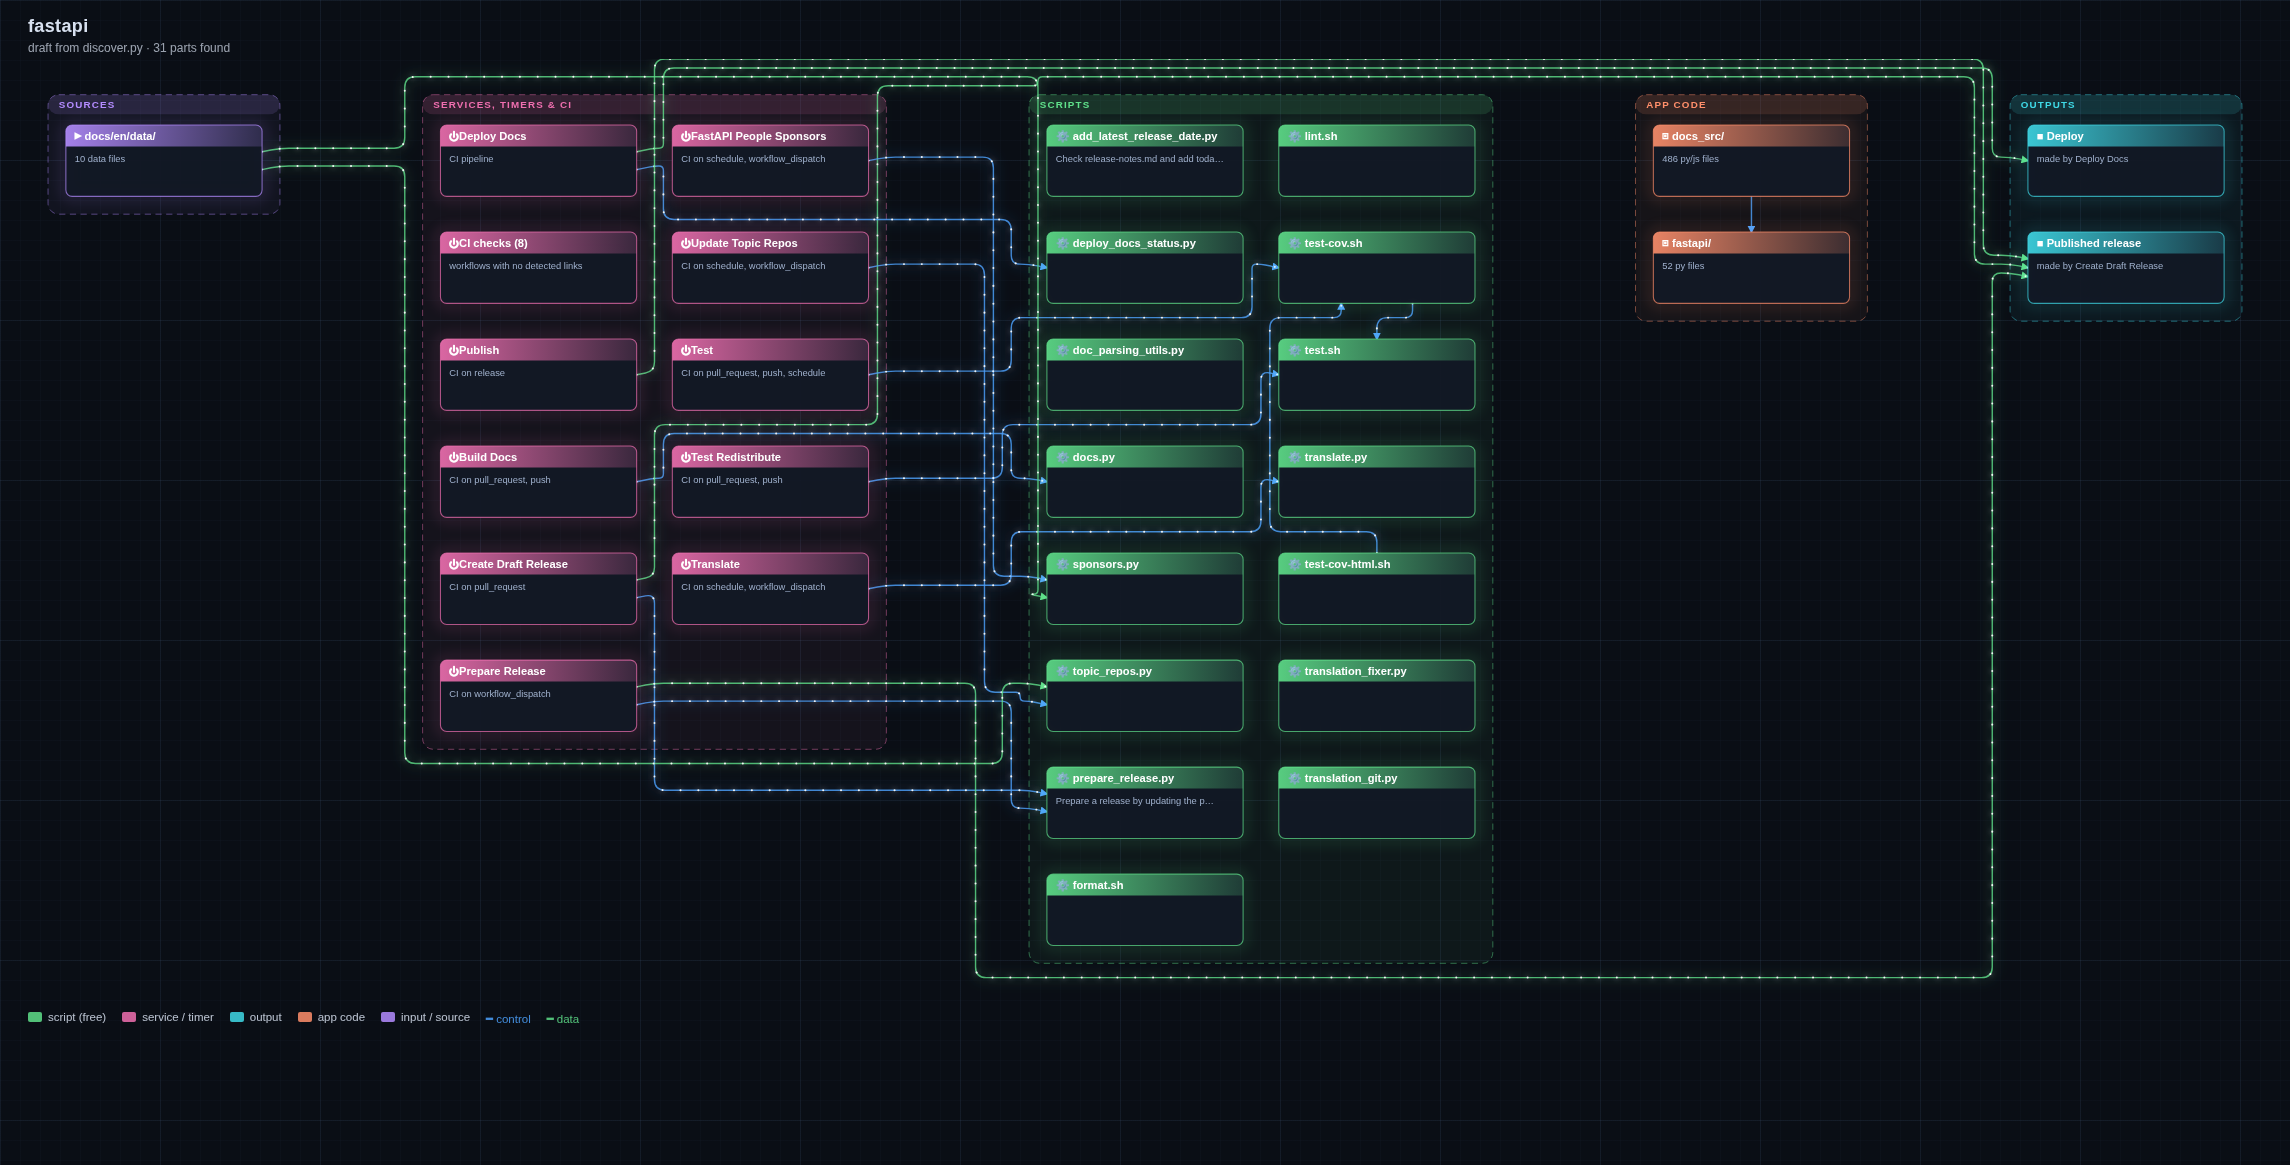
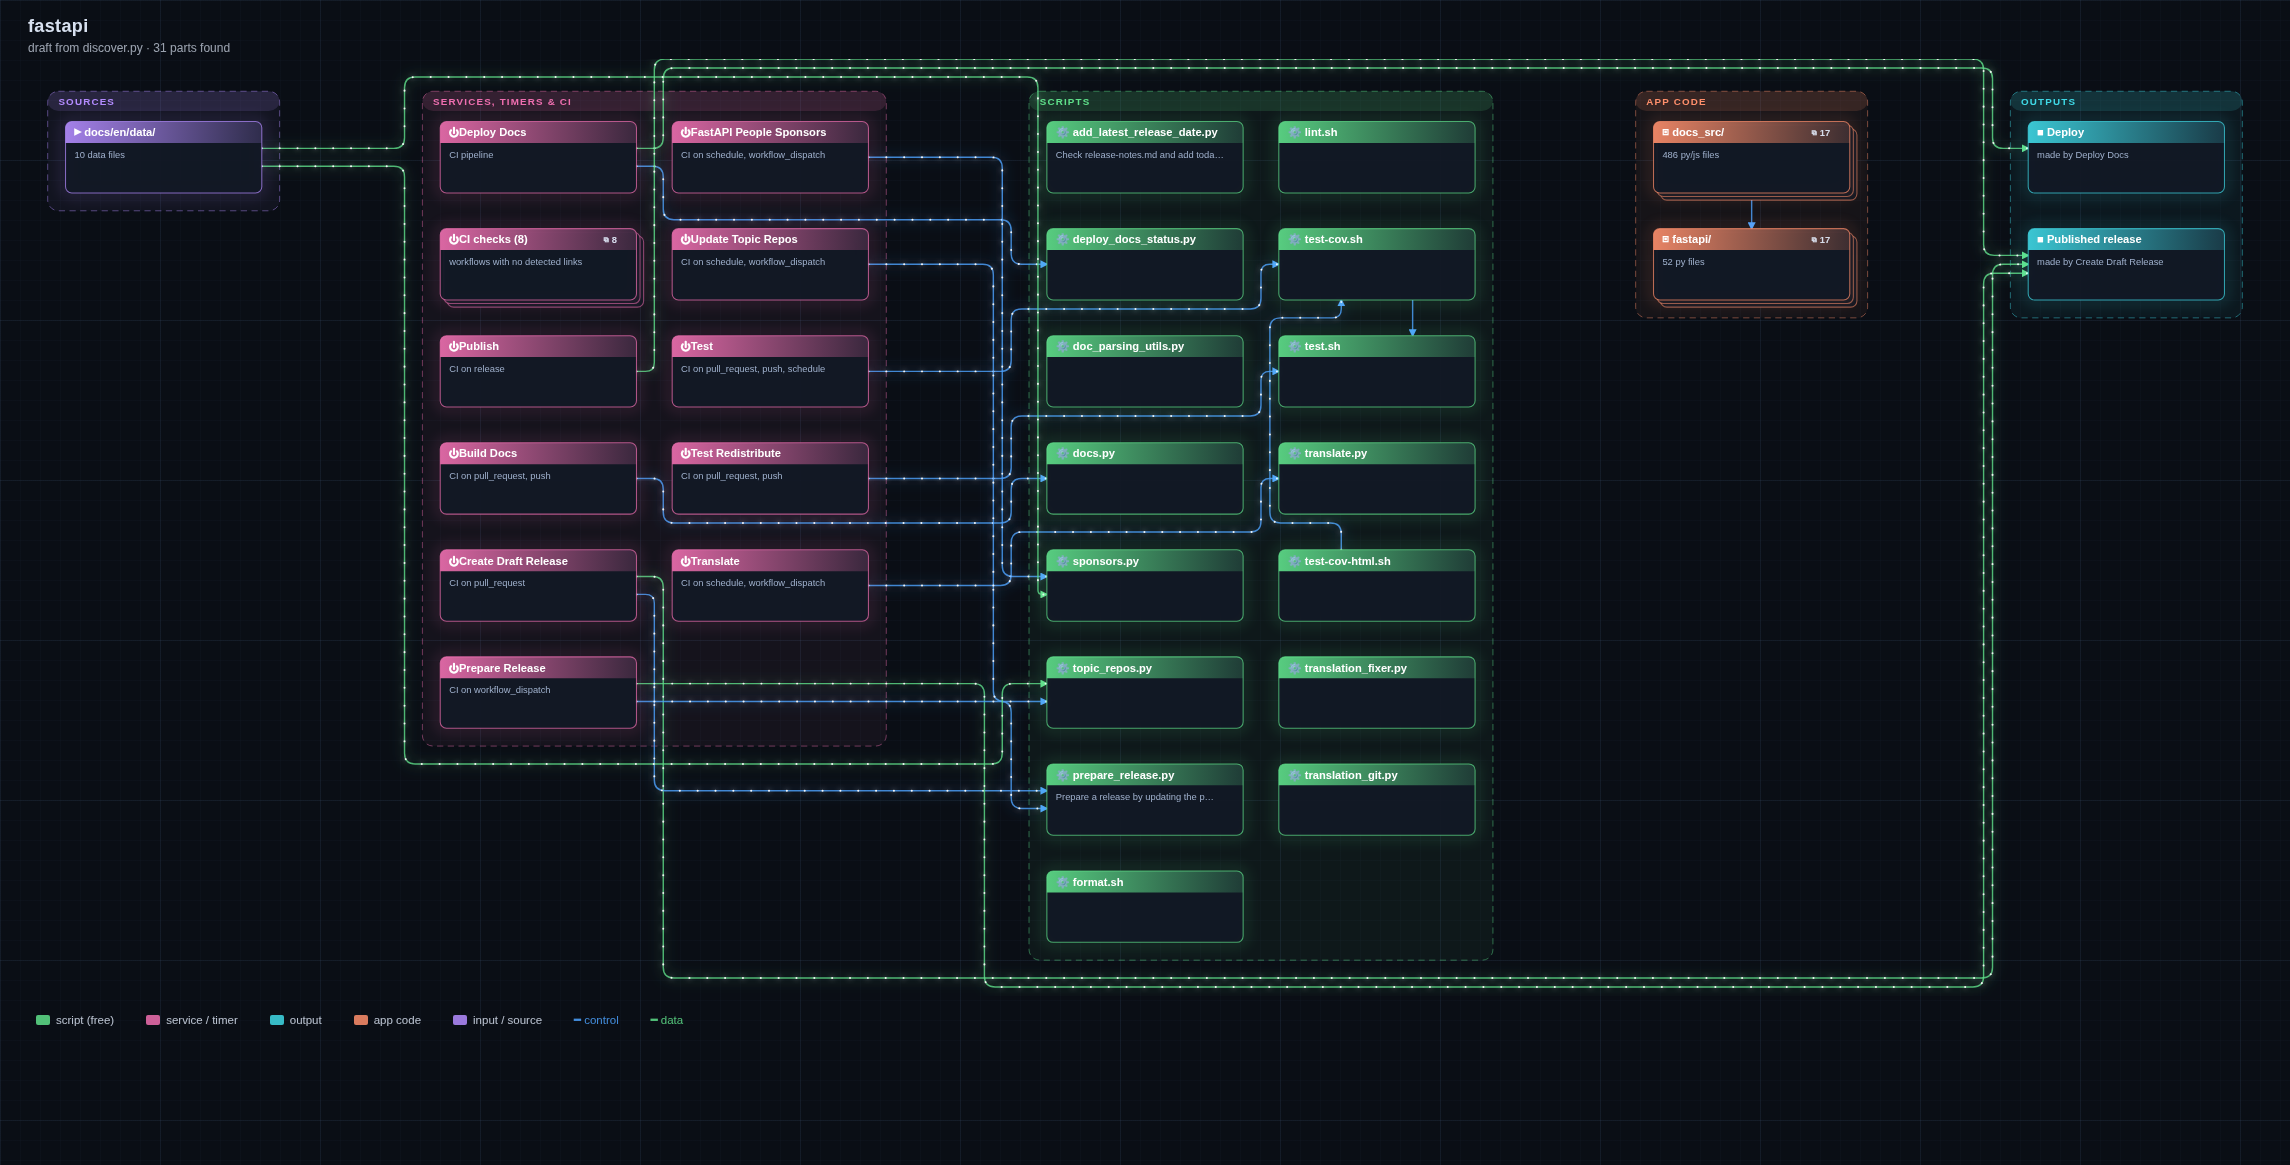
README: refresh the FastAPI example with the straighter wires; note timers are Linux-only

diff --git a/README.md b/README.md
@@ -97,7 +97,7 @@ Add a `live` section to a map (`discover.py` drafts one) and boxes light up whil
 
 - agents from local Pi and Claude Code session logs: working or idle, the current tool call, an activity feed and today's estimated cost;
 - files appearing in hand-over folders, and review verdicts;
-- systemd timers (next run, last result), open git branches and running processes.
+- systemd timers (next run, last result; Linux only, on macOS those boxes stay blank), open git branches and running processes.
 
 The board listens only on 127.0.0.1 and is read-only. It runs a fixed set of probes and never runs commands from a map.
 It does its work only while a page is open, and redacts secret-looking text in the feed.
